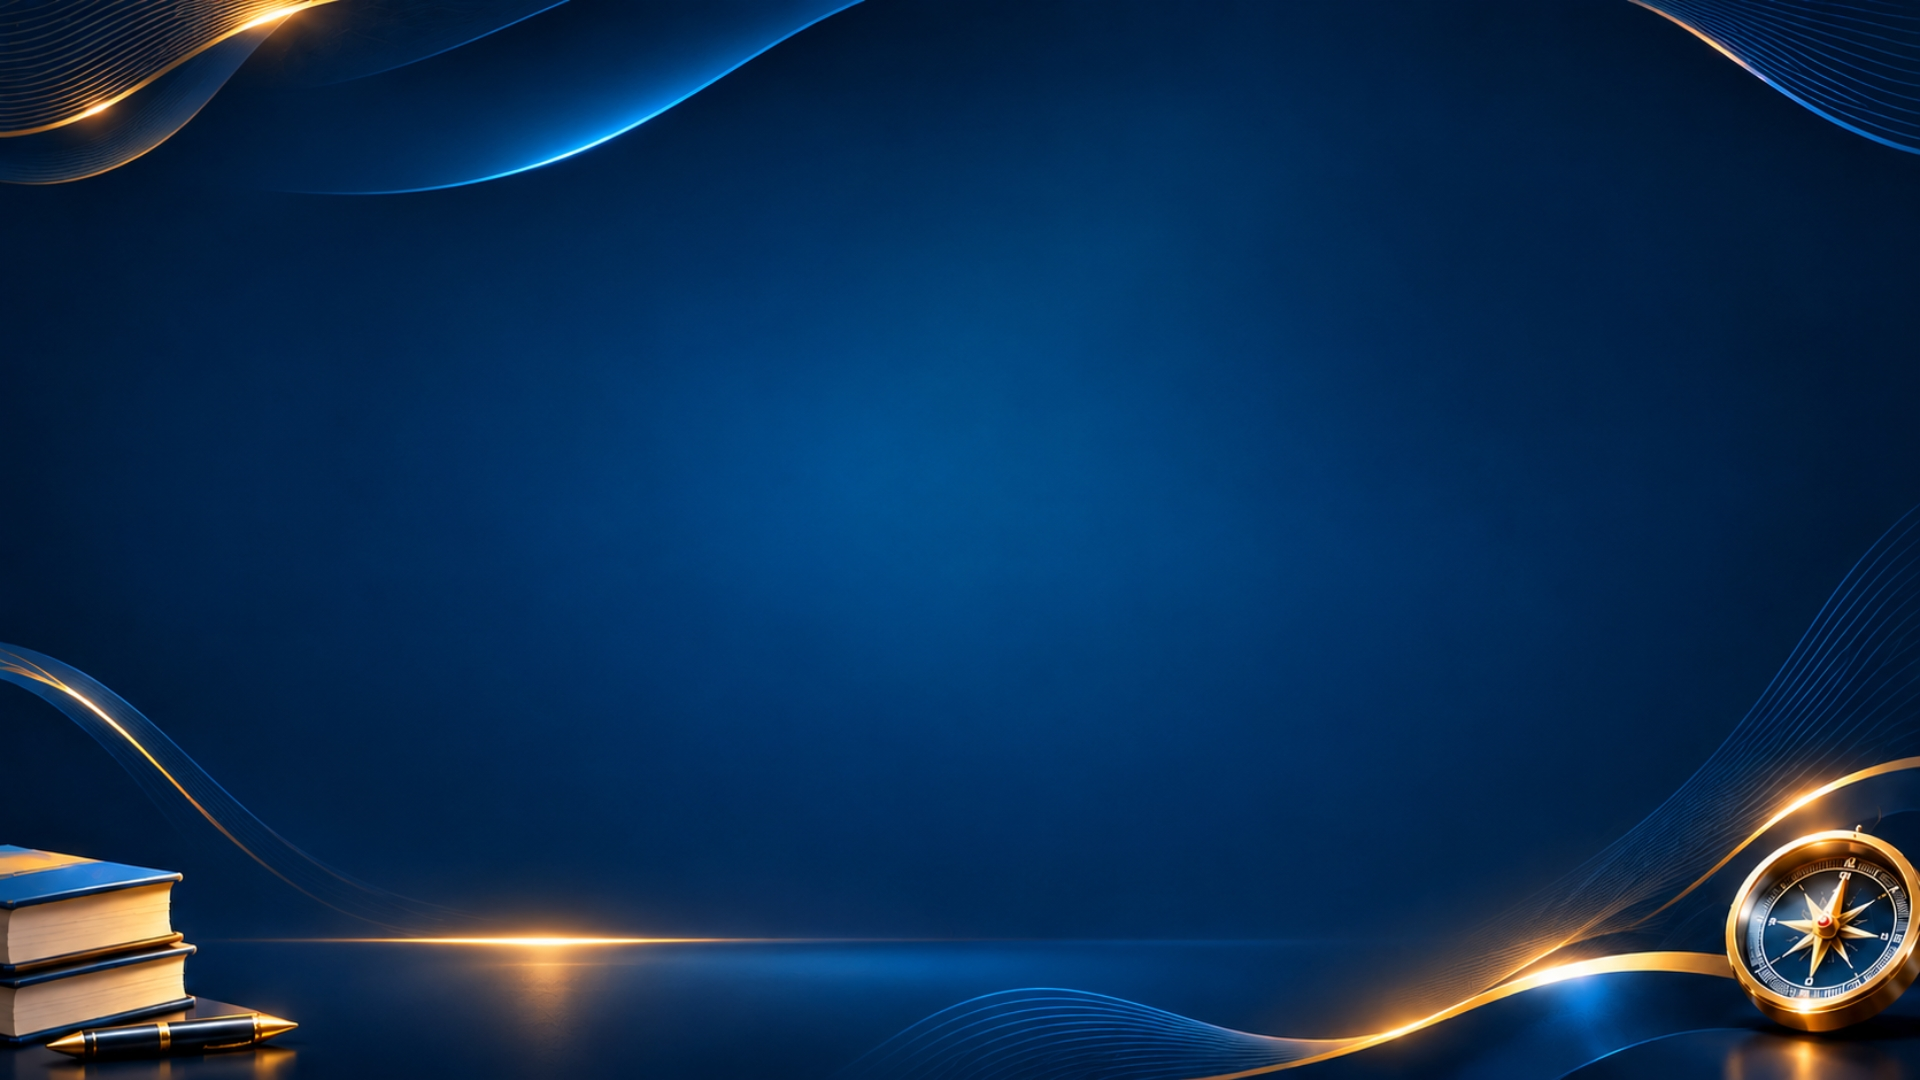
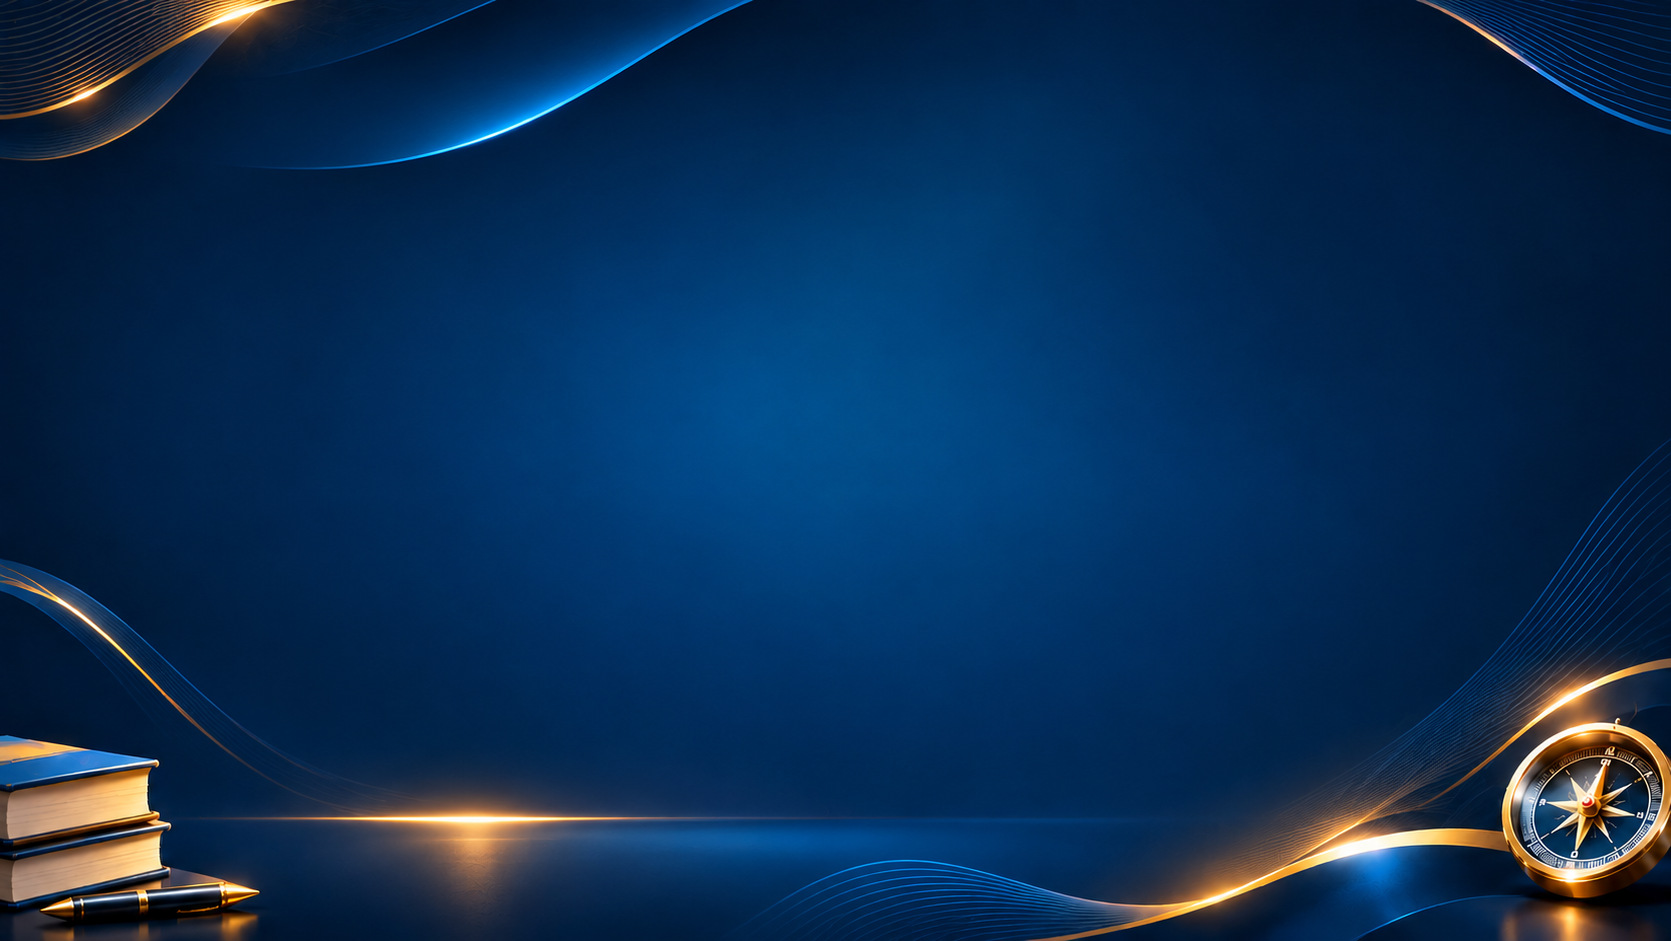
Add files via upload

diff --git a/style.css b/style.css
@@ -1592,3 +1592,65 @@ html body #roda #wheel{display:block!important;width:100%!important;height:auto!
  html body #pergunta.v46-question-panel:not(.hidden) .v45-reveals{grid-template-columns:1fr!important;}
  html body #roda .wheel-wrap{width:min(100%,95vw)!important;}
 }
+
+/* V71 — REGRA CANÔNICA: vence os seletores antigos #appMain:has(...) da V31.
+   Não reduzir fontes ao entrar em tela cheia. */
+#appMain:has(#pergunta:not(.hidden)) #pergunta.v46-question-panel .v45-question-core {
+ width:min(92vw,1380px)!important;max-width:1380px!important;gap:12px!important;
+}
+#appMain:has(#pergunta:not(.hidden)) #pergunta.v46-question-panel #qtext.question {
+ font-size:clamp(48px,4.4vw,82px)!important;line-height:1.1!important;
+ font-weight:900!important;letter-spacing:-.02em!important;
+ width:100%!important;max-width:1380px!important;min-height:0!important;
+ padding:clamp(18px,2.5vh,32px) clamp(22px,3vw,48px)!important;
+ margin:8px auto 12px!important;display:block!important;text-align:center!important;
+ border:3px solid #ffd145!important;border-radius:24px!important;
+ background:rgba(2,19,41,.94)!important;box-shadow:0 0 24px rgba(255,196,45,.34)!important;
+ text-wrap:balance!important;overflow-wrap:break-word!important;
+}
+#appMain:has(#pergunta:not(.hidden)) #pergunta.v46-question-panel #qcontrols {width:100%!important;max-width:1320px!important;margin:auto!important;}
+#appMain:has(#pergunta:not(.hidden)) #pergunta.v46-question-panel .v45-reveals{width:100%!important;grid-template-columns:repeat(2,minmax(0,1fr))!important;}
+#appMain:has(#pergunta:not(.hidden)) #pergunta.v46-question-panel .v45-comment-wrap{width:100%!important;}
+@media(max-width:760px){
+ #appMain:has(#pergunta:not(.hidden)) #pergunta.v46-question-panel #qtext.question{font-size:clamp(30px,6.2vw,48px)!important;padding:18px 16px!important;}
+ #appMain:has(#pergunta:not(.hidden)) #pergunta.v46-question-panel .v45-reveals{grid-template-columns:1fr!important;}
+}
+
+/* V72 — contrato visual único, monitor padrão 1366–1920px.
+   A especificidade supera TODAS as regras anteriores html body #pergunta.
+   Sem redução de fonte em tela cheia. */
+@media (min-width: 761px) {
+ html body #appMain:has(#pergunta:not(.hidden)) #pergunta.v46-question-panel:not(.hidden) .v45-question-core {
+  width:min(94vw,1280px)!important;max-width:1280px!important;gap:8px!important;
+ }
+ html body #appMain:has(#pergunta:not(.hidden)) #pergunta.v46-question-panel:not(.hidden) .v45-question-core #qtext.question {
+  box-sizing:border-box!important;display:block!important;width:100%!important;max-width:1280px!important;
+  min-height:0!important;height:auto!important;margin:4px auto 8px!important;
+  padding:12px 32px!important;font-size:clamp(43px,3.7vw,64px)!important;
+  line-height:1.07!important;font-weight:900!important;letter-spacing:-.025em!important;
+  text-align:center!important;text-wrap:balance!important;overflow-wrap:break-word!important;
+  border:3px solid #ffd145!important;border-radius:24px!important;
+  background:rgba(2,19,41,.94)!important;box-shadow:0 0 24px rgba(255,196,45,.38)!important;
+ }
+ html body #appMain:has(#pergunta:not(.hidden)) #pergunta.v46-question-panel:not(.hidden) #qcontrols {
+  width:min(94vw,1280px)!important;max-width:1280px!important;margin:0 auto!important;
+ }
+ html body #appMain:has(#pergunta:not(.hidden)) #pergunta.v46-question-panel:not(.hidden) .v45-reveals {
+  width:100%!important;display:grid!important;grid-template-columns:repeat(2,minmax(0,1fr))!important;gap:16px!important;
+ }
+ html body #appMain:has(#pergunta:not(.hidden)) #pergunta.v46-question-panel:not(.hidden) .v45-comment-wrap {
+  width:100%!important;max-width:none!important;
+ }
+ html body #appMain:has(#pergunta:not(.hidden)) #pergunta.v46-question-panel:not(.hidden) .v45-question-label {margin:0 auto 4px!important;}
+}
+@media (min-width:761px) and (max-height:760px) {
+ html body #appMain:has(#pergunta:not(.hidden)) #pergunta.v46-question-panel:not(.hidden) .v45-question-core #qtext.question {
+  font-size:clamp(40px,3.5vw,58px)!important;padding:8px 26px!important;
+ }
+}
+/* V72 — proporções finais da referência: centro amplo sem ocupar as bordas decorativas. */
+@media (min-width:761px) {
+ html body #appMain:has(#pergunta:not(.hidden)) #pergunta.v46-question-panel:not(.hidden) .v45-question-core{width:min(90vw,1100px)!important;max-width:1100px!important;}
+ html body #appMain:has(#pergunta:not(.hidden)) #pergunta.v46-question-panel:not(.hidden) #qcontrols{width:min(90vw,1100px)!important;max-width:1100px!important;}
+ html body #appMain:has(#pergunta:not(.hidden)) #pergunta.v46-question-panel:not(.hidden) .v45-question-core #qtext.question{max-width:1100px!important;}
+}

diff --git a/responsive-v61.js b/responsive-v61.js
@@ -1,29 +1,1 @@
-/* V62: ajusta a pergunta ao espaço REAL, sem reduzir preventivamente
-   a fonte para o tamanho pequeno observado nas fotografias. */
-(()=>{
- const q=document.getElementById('qtext'),p=document.getElementById('pergunta');
- if(!q||!p)return;
- let raf=0;
- function fit(){
-  raf=0;
-  if(p.classList.contains('hidden'))return;
-  q.style.removeProperty('font-size');
-  const cssSize=parseFloat(getComputedStyle(q).fontSize)||64;
-  const viewportH=window.innerHeight||document.documentElement.clientHeight;
-  const maxBoxH=Math.max(240,Math.min(viewportH*.53,650));
-  let size=cssSize;
-  // Apenas limitar casos extremos (perguntas longas); permitir quebra de linhas.
-  while(q.getBoundingClientRect().height>maxBoxH && size>38){
-    size=Math.max(38,size-2);
-    q.style.setProperty('font-size',size+'px','important');
-  }
-  q.dataset.fontPx=Math.round(size);
- }
- function schedule(){if(!raf)raf=requestAnimationFrame(fit)}
- new MutationObserver(schedule).observe(q,{childList:true,characterData:true,subtree:true});
- new MutationObserver(schedule).observe(p,{attributes:true,attributeFilter:['class']});
- window.addEventListener('resize',schedule,{passive:true});
- document.addEventListener('fullscreenchange',schedule);
- window.addEventListener('orientationchange',schedule,{passive:true});
- schedule();
-})();
+/* V71: tamanho da pergunta controlado exclusivamente pelo CSS responsivo. */

diff --git a/index.html b/index.html
@@ -1,4 +1,4 @@
-<!doctype html><html lang="pt-BR"><head><meta charset="utf-8"><meta name="viewport" content="width=device-width,initial-scale=1"><title>Roda das Competências para o Século XXI — V70</title><link rel="stylesheet" href="style.css"></head><body><div id="welcome" class="welcome-screen login-v67">
+<!doctype html><html lang="pt-BR"><head><meta charset="utf-8"><meta name="viewport" content="width=device-width,initial-scale=1"><title>Roda das Competências para o Século XXI — V72</title><link rel="stylesheet" href="style.css"></head><body><div id="welcome" class="welcome-screen login-v67">
   <div class="login-stage" aria-label="Laboratório de Projeto de Vida — Roda das Competências">
     <div class="login-actions">
       <button id="chooseIndividual" class="login-hotspot" type="button" aria-label="EXPERIÊNCIA INDIVIDUAL"><span>EXPERIÊNCIA INDIVIDUAL</span></button>
